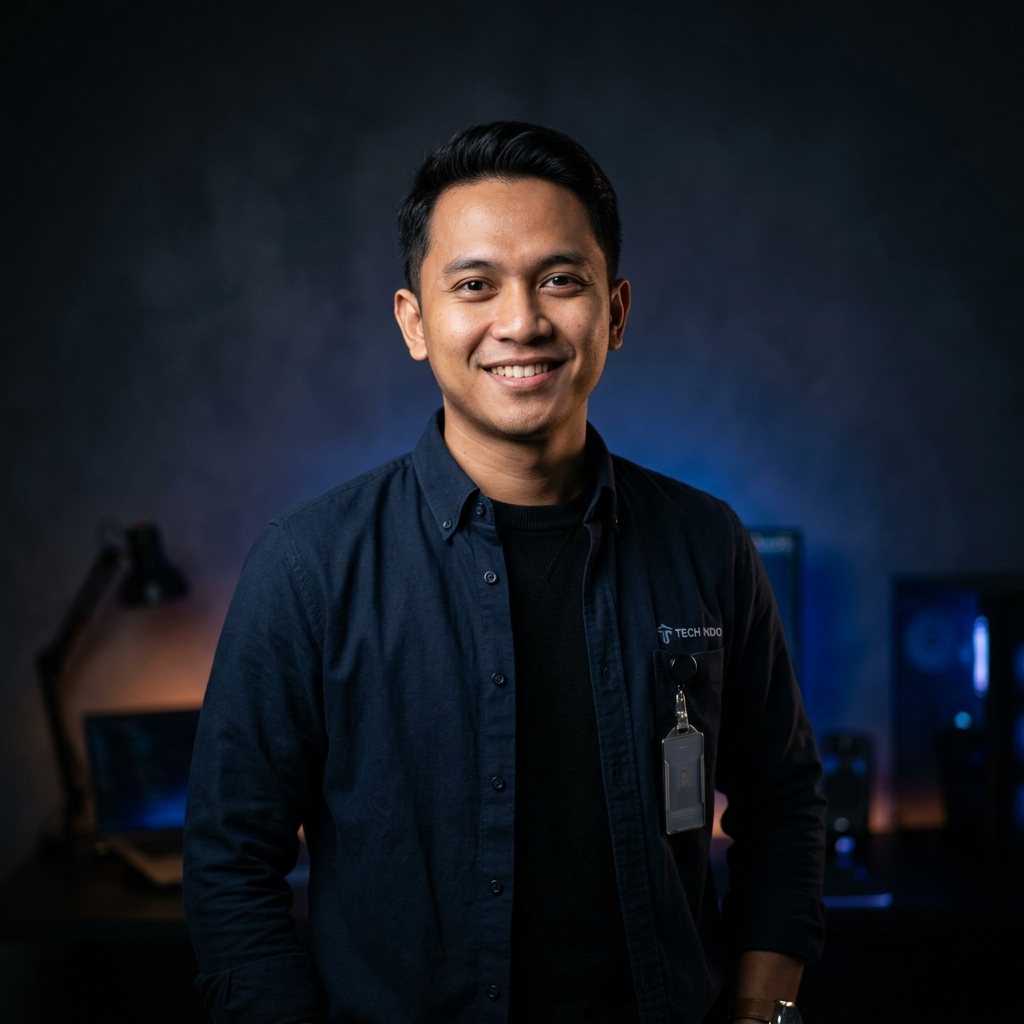
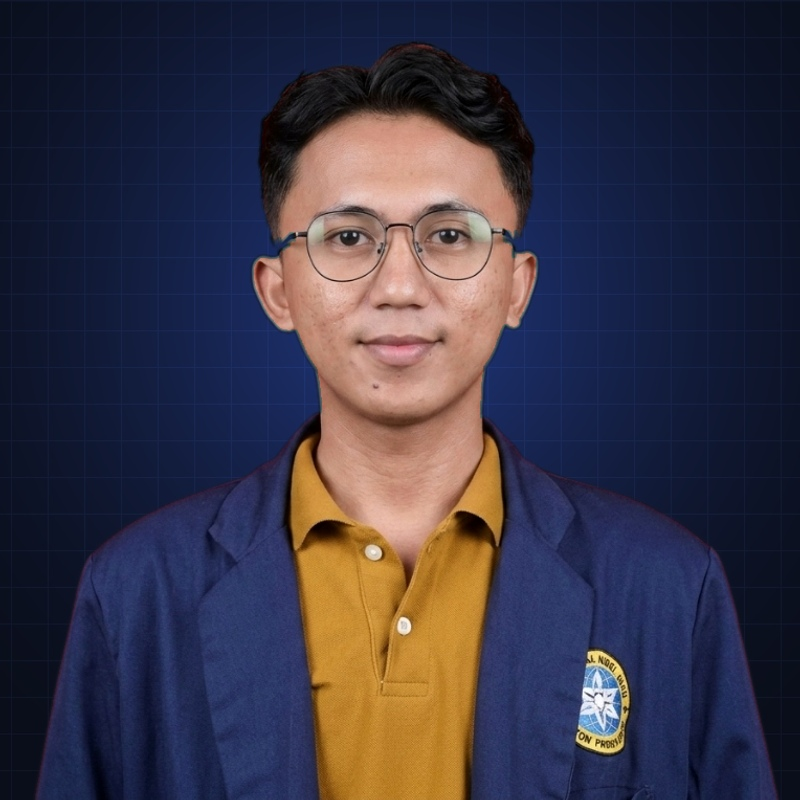
change profile

diff --git a/style.css b/style.css
@@ -581,22 +581,35 @@ textarea {
 
 .about-image-wrapper {
   position: relative;
+  max-width: 420px;
+  margin: 0 auto;
 }
 
 .about-image {
   width: 100%;
-  max-width: 400px;
   aspect-ratio: 1;
   border-radius: var(--radius-2xl);
   overflow: hidden;
   position: relative;
-  box-shadow: var(--shadow-xl);
+  box-shadow: 0 20px 40px -15px hsla(250, 90%, 65%, 0.25), var(--shadow-xl);
+  border: 1px solid var(--clr-glass-border);
+  transition: transform var(--transition-slow), box-shadow var(--transition-slow);
+}
+
+.about-image:hover {
+  transform: translateY(-4px) scale(1.01);
+  box-shadow: 0 25px 50px -15px hsla(250, 90%, 65%, 0.35), var(--shadow-2xl);
 }
 
 .about-image img {
   width: 100%;
   height: 100%;
   object-fit: cover;
+  transition: transform var(--transition-slow);
+}
+
+.about-image:hover img {
+  transform: scale(1.03);
 }
 
 .about-image::after {
@@ -604,20 +617,94 @@ textarea {
   position: absolute;
   inset: 0;
   border-radius: var(--radius-2xl);
-  border: 2px solid var(--clr-glass-border);
+  border: 1px solid hsla(250, 90%, 65%, 0.2);
   pointer-events: none;
 }
 
 .about-image-decor {
   position: absolute;
-  width: 100%;
-  height: 100%;
-  top: 1.5rem;
-  left: 1.5rem;
-  border-radius: var(--radius-2xl);
-  border: 2px solid var(--clr-accent-primary);
-  opacity: 0.2;
+  inset: -10px;
+  border-radius: calc(var(--radius-2xl) + 10px);
+  background: linear-gradient(135deg, hsla(250, 90%, 65%, 0.2), hsla(190, 95%, 50%, 0.1), transparent 60%);
+  filter: blur(20px);
   z-index: -1;
+  opacity: 0.7;
+  animation: auraPulse 6s ease-in-out infinite alternate;
+}
+
+@keyframes auraPulse {
+  0% { opacity: 0.4; transform: scale(0.96); }
+  100% { opacity: 0.8; transform: scale(1.02); }
+}
+
+/* Floating Badges */
+.profile-floating-badge {
+  position: absolute;
+  display: flex;
+  align-items: center;
+  gap: var(--space-sm);
+  padding: 0.65rem 1rem;
+  background: var(--clr-glass);
+  backdrop-filter: blur(16px);
+  -webkit-backdrop-filter: blur(16px);
+  border: 1px solid var(--clr-glass-border);
+  border-radius: var(--radius-xl);
+  box-shadow: var(--shadow-lg);
+  z-index: 2;
+  transition: transform var(--transition-base), box-shadow var(--transition-base);
+  animation: badgeFloat 4s ease-in-out infinite alternate;
+}
+
+.profile-floating-badge:hover {
+  transform: translateY(-4px) scale(1.04);
+  box-shadow: 0 12px 30px hsla(250, 90%, 65%, 0.25);
+  border-color: var(--clr-accent-primary);
+}
+
+.profile-badge--top {
+  top: -16px;
+  right: -16px;
+  animation-delay: 0s;
+}
+
+.profile-badge--bottom {
+  bottom: -16px;
+  left: -16px;
+  animation-delay: -2s;
+}
+
+@keyframes badgeFloat {
+  0% { transform: translateY(0); }
+  100% { transform: translateY(-8px); }
+}
+
+.badge-icon-box {
+  width: 2.25rem;
+  height: 2.25rem;
+  border-radius: var(--radius-md);
+  background: hsla(250, 90%, 65%, 0.15);
+  display: flex;
+  align-items: center;
+  justify-content: center;
+  font-size: 1.15rem;
+  border: 1px solid hsla(250, 90%, 65%, 0.25);
+}
+
+.badge-text-box {
+  display: flex;
+  flex-direction: column;
+}
+
+.badge-title {
+  font-family: var(--ff-display);
+  font-size: var(--fs-xs);
+  font-weight: 700;
+  color: var(--clr-text-primary);
+}
+
+.badge-sub {
+  font-size: 0.7rem;
+  color: var(--clr-text-muted);
 }
 
 .about-text p {

diff --git a/index.html b/index.html
@@ -123,6 +123,20 @@
             <img src="assets/images/profile.jpg" alt="Ach Zulfi Zibyan" width="400" height="400" loading="lazy">
           </div>
           <div class="about-image-decor"></div>
+          <div class="profile-floating-badge profile-badge--top">
+            <div class="badge-icon-box">⚡</div>
+            <div class="badge-text-box">
+              <span class="badge-title">Full-Stack Dev</span>
+              <span class="badge-sub">TypeScript & React</span>
+            </div>
+          </div>
+          <div class="profile-floating-badge profile-badge--bottom">
+            <div class="badge-icon-box">🎨</div>
+            <div class="badge-text-box">
+              <span class="badge-title">UI/UX Designer</span>
+              <span class="badge-sub">Figma & Design Systems</span>
+            </div>
+          </div>
         </div>
 
         <div class="about-text">
